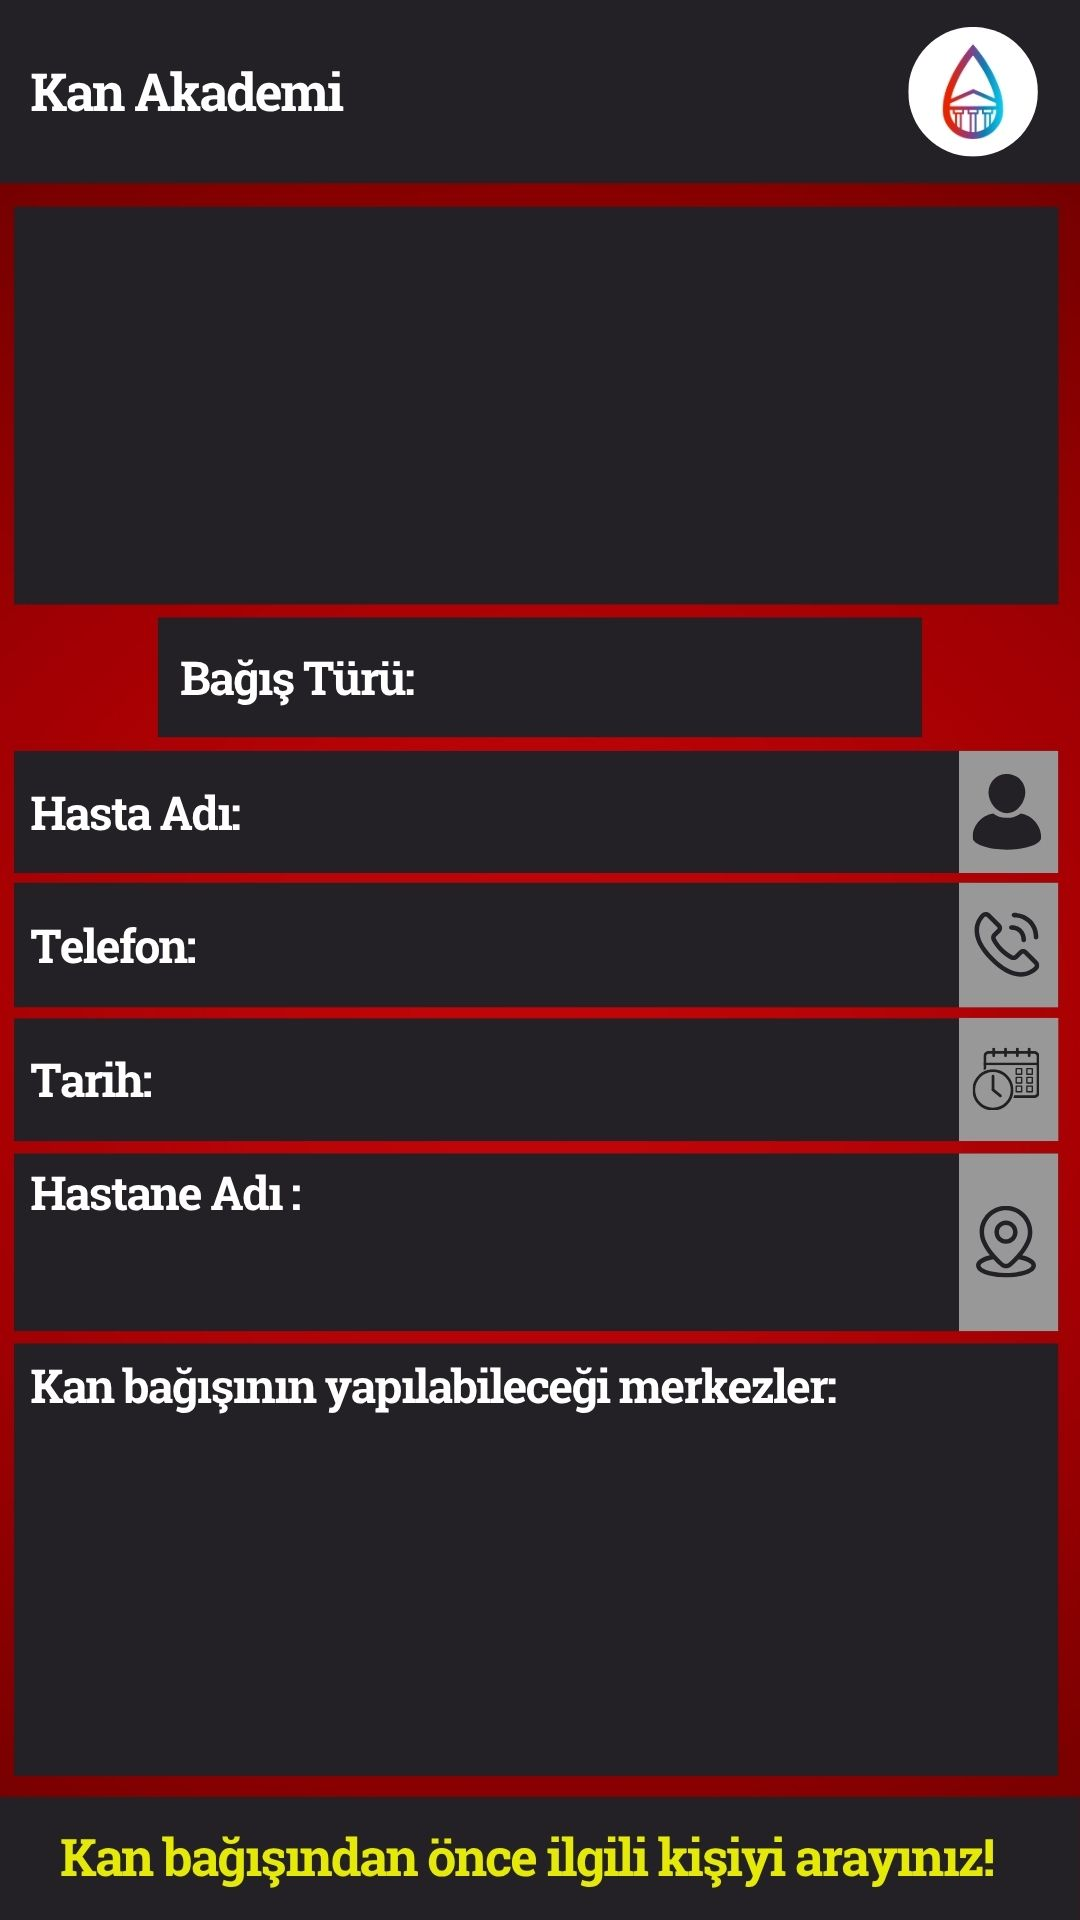
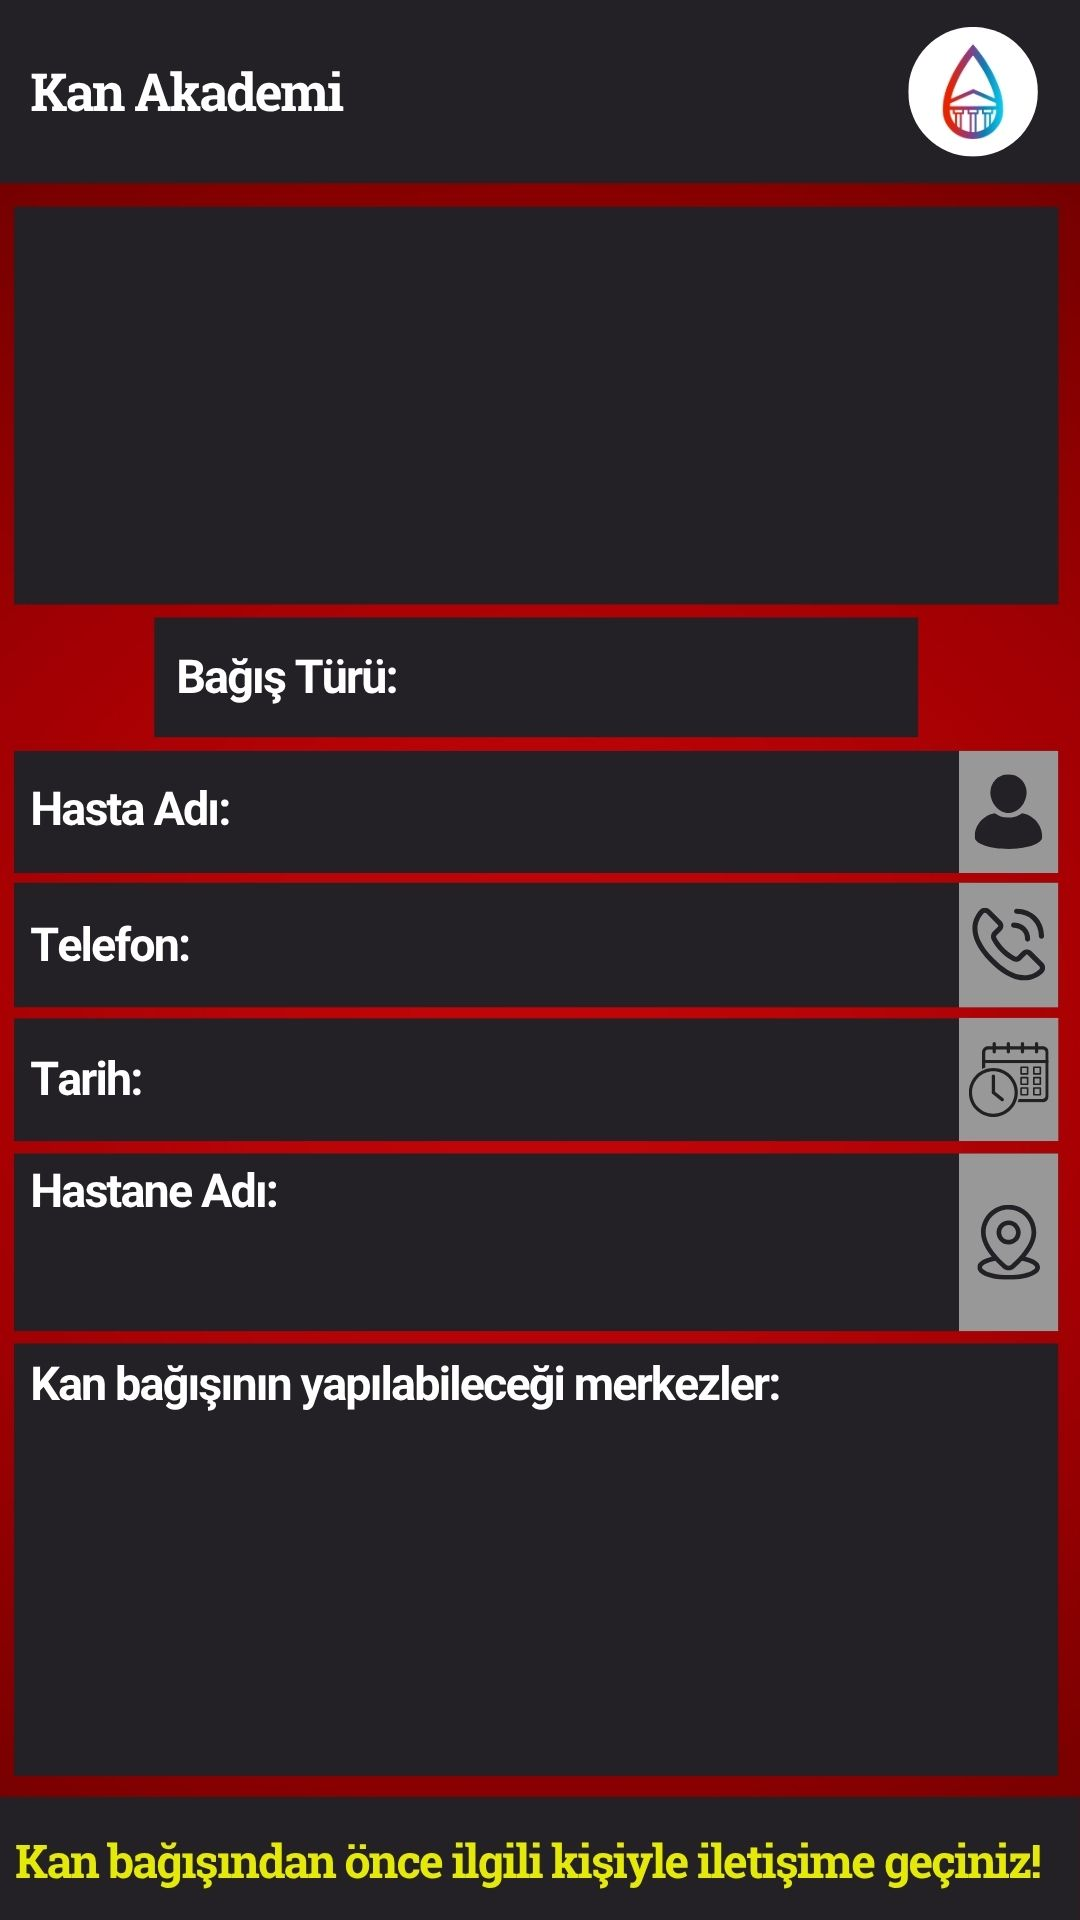
refactor: update font styles, template and adjust coordinates in BloodDonationForm

diff --git a/index.html b/index.html
@@ -5,8 +5,7 @@
     <link rel="icon" type="image/svg+xml" href="/favicon.png" />
     <link rel="preconnect" href="https://fonts.googleapis.com">
     <link rel="preconnect" href="https://fonts.gstatic.com" crossorigin>
-    <link href="https://fonts.googleapis.com/css2?family=Open+Sans:ital,wght@0,300..800;1,300..800&display=swap" rel="stylesheet">
-    <link href="https://fonts.googleapis.com/css2?family=League+Spartan:wght@100..900&display=swap" rel="stylesheet">
+    <link href="https://fonts.googleapis.com/css2?family=League+Spartan:wght@600&family=Roboto:ital,wght@0,100..900;1,100..900&display=swap" rel="stylesheet">
     <meta name="viewport" content="width=device-width, initial-scale=1.0" />
     <title>Kan Akademi İlan Formu</title>
   </head>

diff --git a/src/components/BloodDonationForm.tsx b/src/components/BloodDonationForm.tsx
@@ -6,10 +6,10 @@ import type { BloodDonationFormEntity } from "../entities/BloodDonationFormEntit
 
 const defaultCoords = {
   bloodGroup: { top: 82, left: 40 },
-  bloodType: { top: 212, left: 143 },
-  fullName: { top: 257, left: 86 },
-  phone: { top: 301, left: 70 },
-  date: { top: 346, left: 56 },
+  bloodType: { top: 213, left: 135 },
+  fullName: { top: 257, left: 80 },
+  phone: { top: 303, left: 65 },
+  date: { top: 347, left: 50 },
   hospital: { top: 408, left: 10 },
   location: { top: 475, left: 10 },
 };

diff --git a/src/components/BloodDonationForm.css b/src/components/BloodDonationForm.css
@@ -1,6 +1,6 @@
 * {
   box-sizing: border-box;
-  font-family: 'Open Sans', sans-serif;
+  font-family: "Roboto", sans-serif;
 }
 
 .container {
@@ -42,7 +42,6 @@ input, select, textarea {
   width: 100%;
   padding: 8px;
   font-size: 16px;
-  font-family: sans-serif;
   margin-bottom: 10px;
 }
 
@@ -50,7 +49,7 @@ input, select, textarea {
   position: absolute;
   color: white;
   /* font-weight: bold; */
-  font-size: 18px;
+  font-size: 17px;
   text-shadow: 1px 1px 4px rgba(0, 0, 0, 0.7);
 }
 
